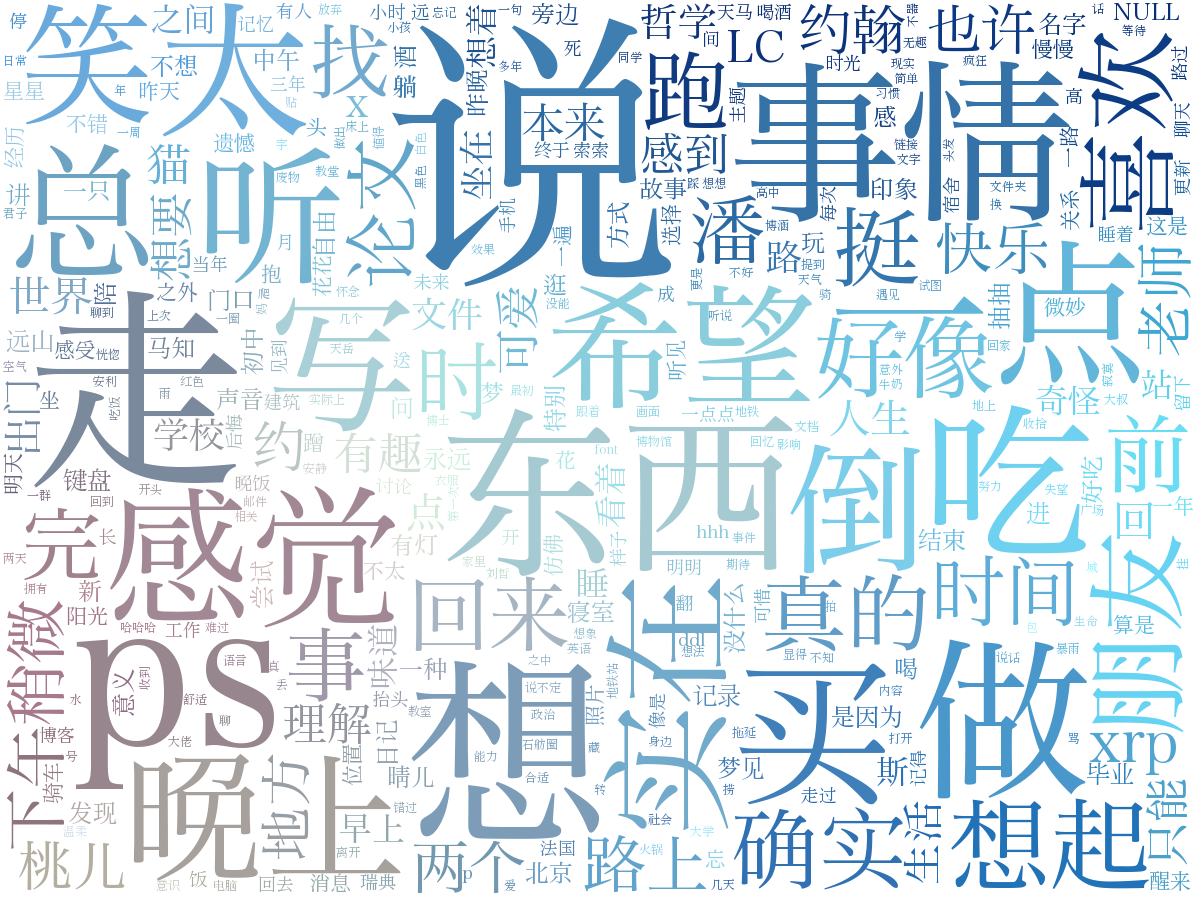
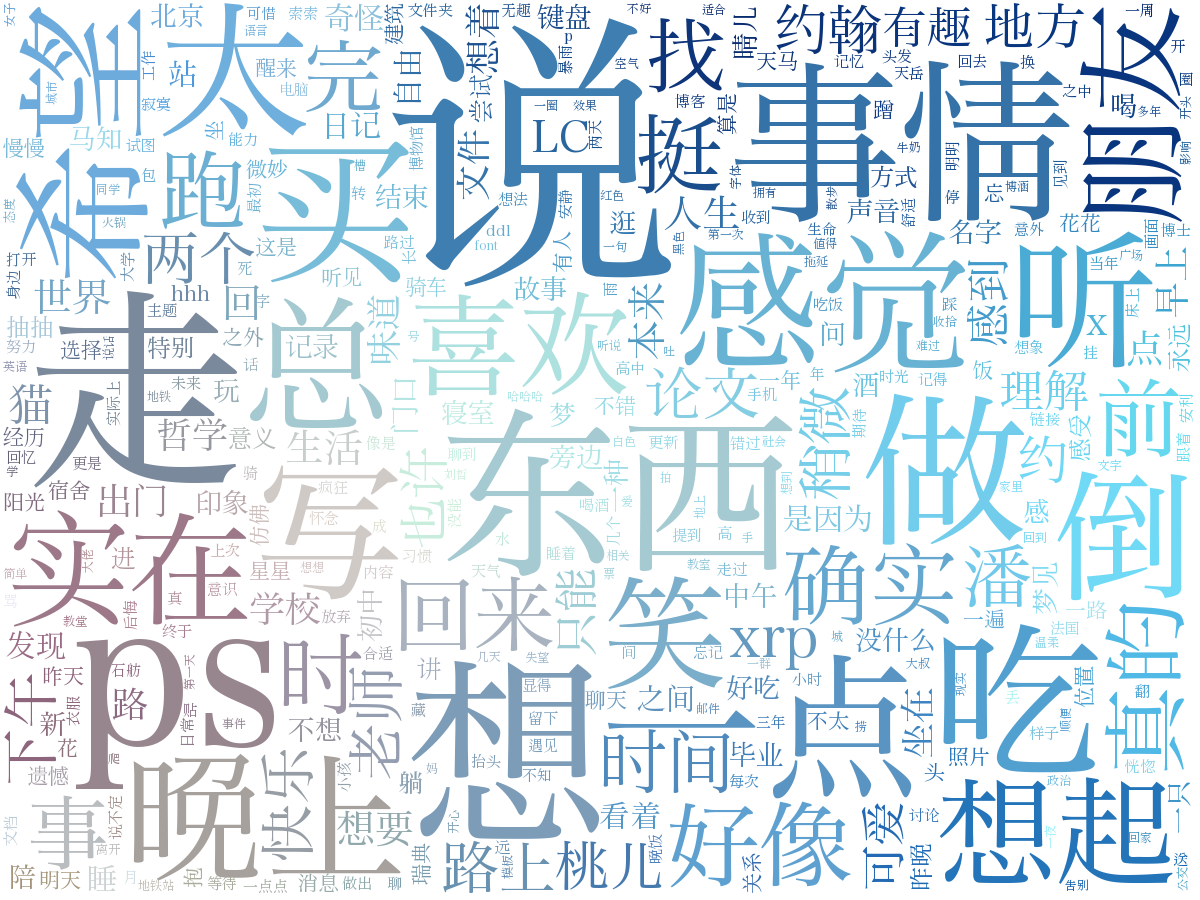
easy-update

diff --git a/Image/Wordcloud/cloud.py b/Image/Wordcloud/cloud.py
@@ -38,6 +38,12 @@ def scanFile(path):
 				text += clearFile(fi.read())
 	return text
 
+def clearName(content):
+	namelist = ['远山有灯','斯丢匹德做个人吧','岸边渡鸦','余娱余愚','Nof','君子不器','NULL','Prisoner24601','咩','斯丢匹德是个废物','插兜','斯丢匹德扑棱扑棱','斯丢匹德']
+	for name in namelist:
+		content = re.sub(name,'',content)
+	return content
+
 def creatCloud(result):
 	# 分词
 	wordList = jieba.lcut(result) 
@@ -70,5 +76,5 @@ def creatCloud(result):
 	'''
 
 postContent = scanFile(postPath)
-creatCloud(postContent)
+creatCloud(clearName(postContent))
 print('Wordcloud has been built successfully.\n')
